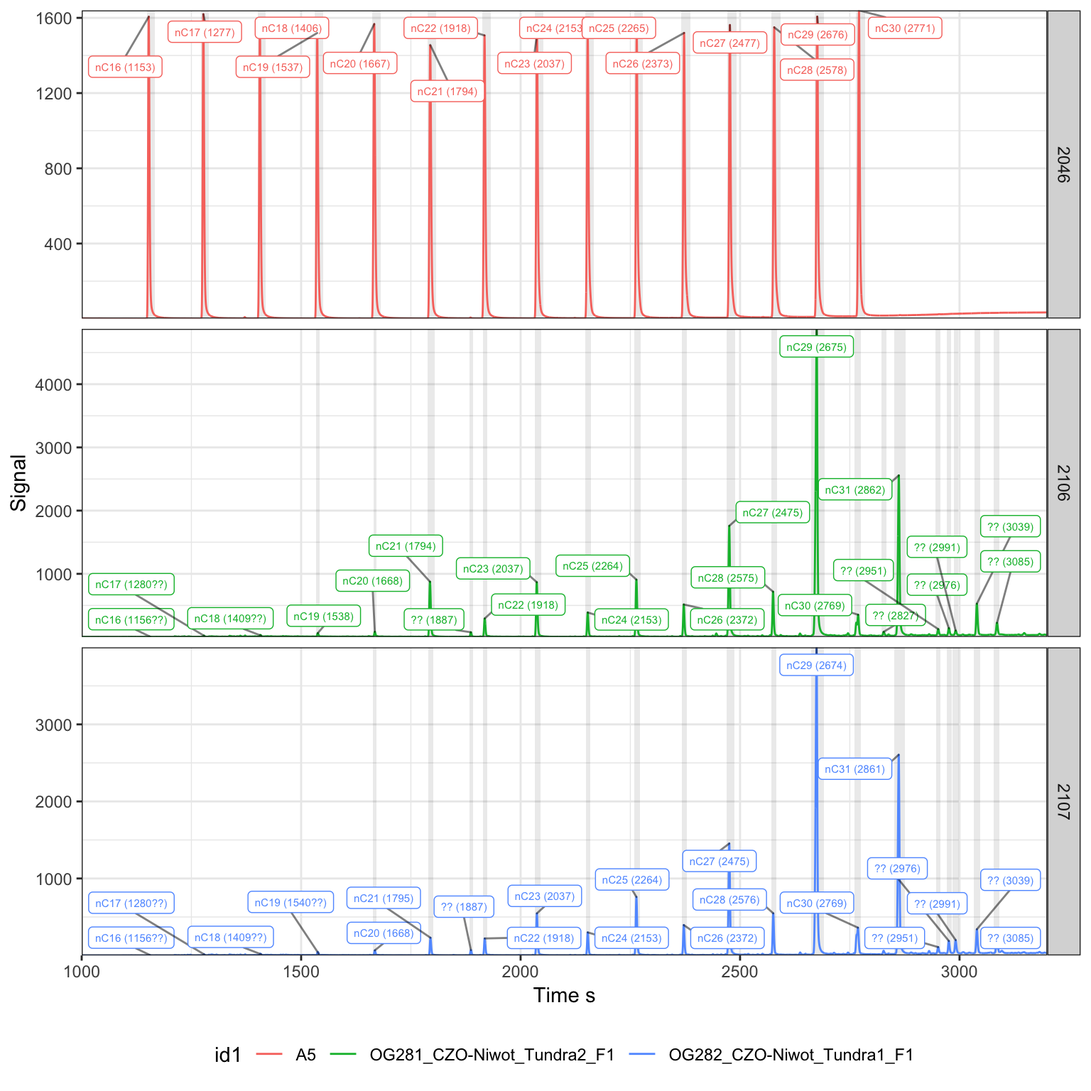
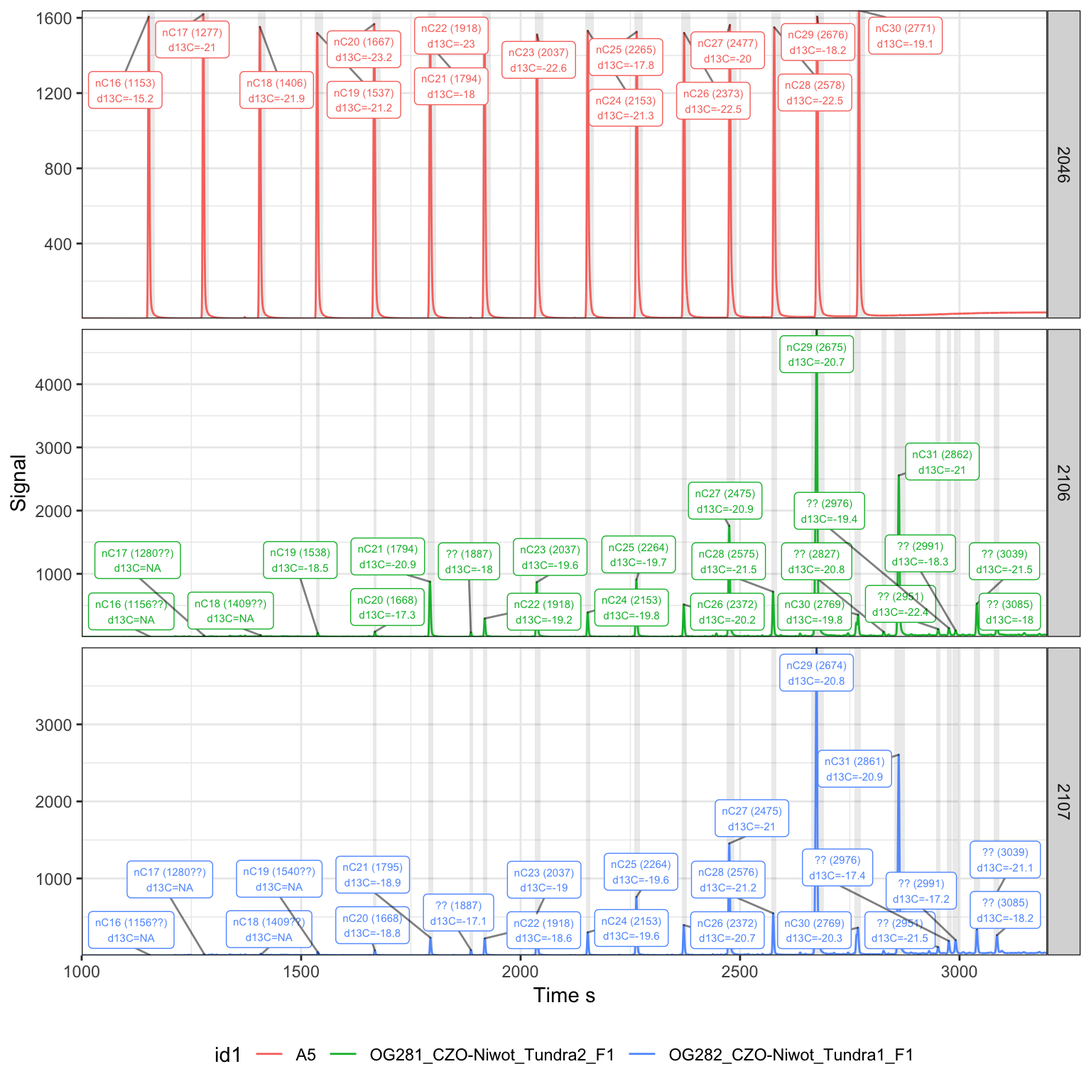
update vignette text

diff --git a/docs/articles/gc_irms_example_carbon.html b/docs/articles/gc_irms_example_carbon.html
@@ -119,27 +119,28 @@
 <a href="#read-raw-data-files" class="anchor"></a>Read raw data files (*)</h2>
 <div class="sourceCode" id="cb2"><pre class="sourceCode r"><code class="sourceCode r"><a class="sourceLine" id="cb2-1" data-line-number="1"><span class="co"># set file path(s) to data files, folders or rds collections </span></a>
 <a class="sourceLine" id="cb2-2" data-line-number="2"><span class="co"># can be multiple folders or mix of folders and files, using example data set here</span></a>
-<a class="sourceLine" id="cb2-3" data-line-number="3">data_path &lt;-<span class="st"> </span><span class="kw"><a href="../reference/iso_get_processor_example.html">iso_get_processor_example</a></span>(<span class="st">"gc_irms_example_carbon.cf.rds"</span>)</a>
-<a class="sourceLine" id="cb2-4" data-line-number="4"></a>
-<a class="sourceLine" id="cb2-5" data-line-number="5"><span class="co"># read files</span></a>
-<a class="sourceLine" id="cb2-6" data-line-number="6">iso_files_raw &lt;-<span class="st"> </span></a>
-<a class="sourceLine" id="cb2-7" data-line-number="7"><span class="st">  </span><span class="co"># path to data files</span></a>
-<a class="sourceLine" id="cb2-8" data-line-number="8"><span class="st">  </span>data_path <span class="op">%&gt;%</span><span class="st"> </span></a>
-<a class="sourceLine" id="cb2-9" data-line-number="9"><span class="st">  </span><span class="co"># read data files in parallel for fast read</span></a>
-<a class="sourceLine" id="cb2-10" data-line-number="10"><span class="st">  </span><span class="kw"><a href="https://www.rdocumentation.org/packages/isoreader/topics/iso_read_continuous_flow">iso_read_continuous_flow</a></span>(<span class="dt">parallel =</span> <span class="ot">TRUE</span>) <span class="op">%&gt;%</span></a>
-<a class="sourceLine" id="cb2-11" data-line-number="11"><span class="st">  </span><span class="co"># filter out files with read errors (e.g. from aborted analysis)</span></a>
-<a class="sourceLine" id="cb2-12" data-line-number="12"><span class="st">  </span><span class="kw"><a href="https://www.rdocumentation.org/packages/isoreader/topics/iso_filter_files_with_problems">iso_filter_files_with_problems</a></span>()</a>
-<a class="sourceLine" id="cb2-13" data-line-number="13"><span class="co">#&gt; Info: preparing to read 1 data files (all will be cached), setting up ...</span></a>
-<a class="sourceLine" id="cb2-14" data-line-number="14"><span class="co">#&gt; Info (process 1): reading file 'gc_irms_example_carbon.cf.rds' with '....</span></a>
-<a class="sourceLine" id="cb2-15" data-line-number="15"><span class="co">#&gt; Info (process 1): loaded data for 47 data files from R Data Storage - ...</span></a>
-<a class="sourceLine" id="cb2-16" data-line-number="16"><span class="co">#&gt; Info: finished reading 1 files in 1.20 secs</span></a>
-<a class="sourceLine" id="cb2-17" data-line-number="17"><span class="co">#&gt; Info: encountered 2 problems in total</span></a>
-<a class="sourceLine" id="cb2-18" data-line-number="18"><span class="co">#&gt; # A tibble: 2 x 4</span></a>
-<a class="sourceLine" id="cb2-19" data-line-number="19"><span class="co">#&gt;   file_id         type  func            details                            </span></a>
-<a class="sourceLine" id="cb2-20" data-line-number="20"><span class="co">#&gt;   &lt;chr&gt;           &lt;chr&gt; &lt;chr&gt;           &lt;chr&gt;                              </span></a>
-<a class="sourceLine" id="cb2-21" data-line-number="21"><span class="co">#&gt; 1 BF2133__A5 con… error extract_dxf_ra… cannot identify measured masses - …</span></a>
-<a class="sourceLine" id="cb2-22" data-line-number="22"><span class="co">#&gt; 2 BF2110__A5_0_5… error extract_dxf_ra… cannot identify measured masses - …</span></a>
-<a class="sourceLine" id="cb2-23" data-line-number="23"><span class="co">#&gt; Info: removing 2/47 files that have any error (keeping 45)</span></a></code></pre></div>
+<a class="sourceLine" id="cb2-3" data-line-number="3"><span class="co"># (this is a reduced data set of mostly standards with just a few example samples)</span></a>
+<a class="sourceLine" id="cb2-4" data-line-number="4">data_path &lt;-<span class="st"> </span><span class="kw"><a href="../reference/iso_get_processor_example.html">iso_get_processor_example</a></span>(<span class="st">"gc_irms_example_carbon.cf.rds"</span>)</a>
+<a class="sourceLine" id="cb2-5" data-line-number="5"></a>
+<a class="sourceLine" id="cb2-6" data-line-number="6"><span class="co"># read files</span></a>
+<a class="sourceLine" id="cb2-7" data-line-number="7">iso_files_raw &lt;-<span class="st"> </span></a>
+<a class="sourceLine" id="cb2-8" data-line-number="8"><span class="st">  </span><span class="co"># path to data files</span></a>
+<a class="sourceLine" id="cb2-9" data-line-number="9"><span class="st">  </span>data_path <span class="op">%&gt;%</span><span class="st"> </span></a>
+<a class="sourceLine" id="cb2-10" data-line-number="10"><span class="st">  </span><span class="co"># read data files in parallel for fast read</span></a>
+<a class="sourceLine" id="cb2-11" data-line-number="11"><span class="st">  </span><span class="kw"><a href="https://www.rdocumentation.org/packages/isoreader/topics/iso_read_continuous_flow">iso_read_continuous_flow</a></span>(<span class="dt">parallel =</span> <span class="ot">TRUE</span>) <span class="op">%&gt;%</span></a>
+<a class="sourceLine" id="cb2-12" data-line-number="12"><span class="st">  </span><span class="co"># filter out files with read errors (e.g. from aborted analysis)</span></a>
+<a class="sourceLine" id="cb2-13" data-line-number="13"><span class="st">  </span><span class="kw"><a href="https://www.rdocumentation.org/packages/isoreader/topics/iso_filter_files_with_problems">iso_filter_files_with_problems</a></span>()</a>
+<a class="sourceLine" id="cb2-14" data-line-number="14"><span class="co">#&gt; Info: preparing to read 1 data files (all will be cached), setting up ...</span></a>
+<a class="sourceLine" id="cb2-15" data-line-number="15"><span class="co">#&gt; Info (process 1): reading file 'gc_irms_example_carbon.cf.rds' with '....</span></a>
+<a class="sourceLine" id="cb2-16" data-line-number="16"><span class="co">#&gt; Info (process 1): loaded data for 47 data files from R Data Storage - ...</span></a>
+<a class="sourceLine" id="cb2-17" data-line-number="17"><span class="co">#&gt; Info: finished reading 1 files in 1.20 secs</span></a>
+<a class="sourceLine" id="cb2-18" data-line-number="18"><span class="co">#&gt; Info: encountered 2 problems in total</span></a>
+<a class="sourceLine" id="cb2-19" data-line-number="19"><span class="co">#&gt; # A tibble: 2 x 4</span></a>
+<a class="sourceLine" id="cb2-20" data-line-number="20"><span class="co">#&gt;   file_id         type  func            details                            </span></a>
+<a class="sourceLine" id="cb2-21" data-line-number="21"><span class="co">#&gt;   &lt;chr&gt;           &lt;chr&gt; &lt;chr&gt;           &lt;chr&gt;                              </span></a>
+<a class="sourceLine" id="cb2-22" data-line-number="22"><span class="co">#&gt; 1 BF2133__A5 con… error extract_dxf_ra… cannot identify measured masses - …</span></a>
+<a class="sourceLine" id="cb2-23" data-line-number="23"><span class="co">#&gt; 2 BF2110__A5_0_5… error extract_dxf_ra… cannot identify measured masses - …</span></a>
+<a class="sourceLine" id="cb2-24" data-line-number="24"><span class="co">#&gt; Info: removing 2/47 files that have any error (keeping 45)</span></a></code></pre></div>
 </div>
 <div id="process-file-information" class="section level2">
 <h2 class="hasAnchor">
@@ -977,30 +978,27 @@
 <a class="sourceLine" id="cb12-5" data-line-number="5"><span class="st">  </span><span class="co"># filter out analyses that</span></a>
 <a class="sourceLine" id="cb12-6" data-line-number="6"><span class="st">  </span>## a) did not inject</a>
 <a class="sourceLine" id="cb12-7" data-line-number="7"><span class="st">  </span><span class="kw"><a href="https://www.rdocumentation.org/packages/isoreader/topics/iso_filter_files">iso_filter_files</a></span>(<span class="op">!</span>Analysis <span class="op">%in%</span><span class="st"> </span><span class="kw"><a href="https://www.rdocumentation.org/packages/base/topics/c">c</a></span>(<span class="dv">2031</span>, <span class="dv">2040</span>, <span class="dv">2069</span>, <span class="dv">2098</span>, <span class="dv">2116</span>, <span class="dv">2138</span>)) <span class="op">%&gt;%</span></a>
-<a class="sourceLine" id="cb12-8" data-line-number="8"><span class="st">  </span><span class="kw"><a href="https://www.rdocumentation.org/packages/isoreader/topics/iso_filter_files">iso_filter_files</a></span>(</a>
-<a class="sourceLine" id="cb12-9" data-line-number="9">    <span class="op">!</span>Analysis <span class="op">%in%</span><span class="st"> </span><span class="kw"><a href="https://www.rdocumentation.org/packages/base/topics/c">c</a></span>(<span class="dv">2031</span>, <span class="dv">2037</span><span class="op">:</span><span class="dv">2040</span>, <span class="dv">2057</span><span class="op">:</span><span class="dv">2058</span>, <span class="dv">2069</span>, <span class="dv">2098</span>, <span class="dv">2116</span>, <span class="dv">2135</span>, <span class="dv">2138</span>)) <span class="op">%&gt;%</span></a>
-<a class="sourceLine" id="cb12-10" data-line-number="10"><span class="st">  </span>## b) had double or rogue peaks from mis-injection</a>
-<a class="sourceLine" id="cb12-11" data-line-number="11"><span class="st">  </span><span class="kw"><a href="https://www.rdocumentation.org/packages/isoreader/topics/iso_filter_files">iso_filter_files</a></span>(<span class="op">!</span>Analysis <span class="op">%in%</span><span class="st"> </span><span class="kw"><a href="https://www.rdocumentation.org/packages/base/topics/c">c</a></span>(<span class="dv">2044</span>, <span class="dv">2132</span>, <span class="dv">2134</span>)) <span class="op">%&gt;%</span><span class="st"> </span></a>
-<a class="sourceLine" id="cb12-12" data-line-number="12"><span class="st">  </span><span class="co"># retrieve peak data table from vendor data</span></a>
-<a class="sourceLine" id="cb12-13" data-line-number="13"><span class="st">  </span><span class="kw"><a href="https://www.rdocumentation.org/packages/isoreader/topics/iso_get_vendor_data_table">iso_get_vendor_data_table</a></span>(</a>
-<a class="sourceLine" id="cb12-14" data-line-number="14">    <span class="dt">select =</span> <span class="kw"><a href="https://www.rdocumentation.org/packages/base/topics/c">c</a></span>(</a>
-<a class="sourceLine" id="cb12-15" data-line-number="15">      <span class="co"># ref peak info (which one was used to calculate raw delta values)</span></a>
-<a class="sourceLine" id="cb12-16" data-line-number="16">      <span class="dt">is_ref =</span> <span class="st">`</span><span class="dt">Is Ref.?</span><span class="st">`</span>,</a>
-<a class="sourceLine" id="cb12-17" data-line-number="17">      <span class="co"># retention time info</span></a>
-<a class="sourceLine" id="cb12-18" data-line-number="18">      <span class="dt">rt_start =</span> Start, <span class="dt">rt =</span> Rt, <span class="dt">rt_end =</span> End,</a>
-<a class="sourceLine" id="cb12-19" data-line-number="19">      <span class="co"># peak amplitude and area info</span></a>
-<a class="sourceLine" id="cb12-20" data-line-number="20">      <span class="dt">amp44.mV =</span> <span class="st">`</span><span class="dt">Ampl 44</span><span class="st">`</span>, <span class="dt">area44.Vs =</span> <span class="st">`</span><span class="dt">Intensity 44</span><span class="st">`</span>, <span class="dt">area.Vs =</span> <span class="st">`</span><span class="dt">Intensity All</span><span class="st">`</span>,</a>
-<a class="sourceLine" id="cb12-21" data-line-number="21">      <span class="co"># isotopic info</span></a>
-<a class="sourceLine" id="cb12-22" data-line-number="22">      <span class="dt">ratio =</span> <span class="st">`</span><span class="dt">R 45CO2/44CO2</span><span class="st">`</span>, <span class="dt">d13C =</span> <span class="st">`</span><span class="dt">d 13C/12C</span><span class="st">`</span></a>
-<a class="sourceLine" id="cb12-23" data-line-number="23">    ),</a>
-<a class="sourceLine" id="cb12-24" data-line-number="24">    <span class="co"># include all file info in the data table</span></a>
-<a class="sourceLine" id="cb12-25" data-line-number="25">    <span class="dt">include_file_info =</span> <span class="kw"><a href="https://www.rdocumentation.org/packages/isoreader/topics/reexports">everything</a></span>()</a>
-<a class="sourceLine" id="cb12-26" data-line-number="26">  ) </a>
-<a class="sourceLine" id="cb12-27" data-line-number="27"><span class="co">#&gt; Info: applying file filter, keeping 40 of 45 files</span></a>
-<a class="sourceLine" id="cb12-28" data-line-number="28"><span class="co">#&gt; Info: applying file filter, keeping 34 of 40 files</span></a>
-<a class="sourceLine" id="cb12-29" data-line-number="29"><span class="co">#&gt; Info: applying file filter, keeping 34 of 34 files</span></a>
-<a class="sourceLine" id="cb12-30" data-line-number="30"><span class="co">#&gt; Info: applying file filter, keeping 32 of 34 files</span></a>
-<a class="sourceLine" id="cb12-31" data-line-number="31"><span class="co">#&gt; Info: aggregating vendor data table without units from 32 data file(s), including file info 'everything()'</span></a></code></pre></div>
+<a class="sourceLine" id="cb12-8" data-line-number="8"><span class="st">  </span>## b) had double or rogue peaks from mis-injection</a>
+<a class="sourceLine" id="cb12-9" data-line-number="9"><span class="st">  </span><span class="kw"><a href="https://www.rdocumentation.org/packages/isoreader/topics/iso_filter_files">iso_filter_files</a></span>(<span class="op">!</span>Analysis <span class="op">%in%</span><span class="st"> </span><span class="kw"><a href="https://www.rdocumentation.org/packages/base/topics/c">c</a></span>(<span class="dv">2044</span>, <span class="dv">2132</span>, <span class="dv">2134</span>)) <span class="op">%&gt;%</span><span class="st"> </span></a>
+<a class="sourceLine" id="cb12-10" data-line-number="10"><span class="st">  </span><span class="co"># retrieve peak data table from vendor data</span></a>
+<a class="sourceLine" id="cb12-11" data-line-number="11"><span class="st">  </span><span class="kw"><a href="https://www.rdocumentation.org/packages/isoreader/topics/iso_get_vendor_data_table">iso_get_vendor_data_table</a></span>(</a>
+<a class="sourceLine" id="cb12-12" data-line-number="12">    <span class="dt">select =</span> <span class="kw"><a href="https://www.rdocumentation.org/packages/base/topics/c">c</a></span>(</a>
+<a class="sourceLine" id="cb12-13" data-line-number="13">      <span class="co"># ref peak info (which one was used to calculate raw delta values)</span></a>
+<a class="sourceLine" id="cb12-14" data-line-number="14">      <span class="dt">is_ref =</span> <span class="st">`</span><span class="dt">Is Ref.?</span><span class="st">`</span>,</a>
+<a class="sourceLine" id="cb12-15" data-line-number="15">      <span class="co"># retention time info</span></a>
+<a class="sourceLine" id="cb12-16" data-line-number="16">      <span class="dt">rt_start =</span> Start, <span class="dt">rt =</span> Rt, <span class="dt">rt_end =</span> End,</a>
+<a class="sourceLine" id="cb12-17" data-line-number="17">      <span class="co"># peak amplitude and area info</span></a>
+<a class="sourceLine" id="cb12-18" data-line-number="18">      <span class="dt">amp44.mV =</span> <span class="st">`</span><span class="dt">Ampl 44</span><span class="st">`</span>, <span class="dt">area44.Vs =</span> <span class="st">`</span><span class="dt">Intensity 44</span><span class="st">`</span>, <span class="dt">area.Vs =</span> <span class="st">`</span><span class="dt">Intensity All</span><span class="st">`</span>,</a>
+<a class="sourceLine" id="cb12-19" data-line-number="19">      <span class="co"># isotopic info</span></a>
+<a class="sourceLine" id="cb12-20" data-line-number="20">      <span class="dt">ratio =</span> <span class="st">`</span><span class="dt">R 45CO2/44CO2</span><span class="st">`</span>, <span class="dt">d13C =</span> <span class="st">`</span><span class="dt">d 13C/12C</span><span class="st">`</span></a>
+<a class="sourceLine" id="cb12-21" data-line-number="21">    ),</a>
+<a class="sourceLine" id="cb12-22" data-line-number="22">    <span class="co"># include all file info in the data table</span></a>
+<a class="sourceLine" id="cb12-23" data-line-number="23">    <span class="dt">include_file_info =</span> <span class="kw"><a href="https://www.rdocumentation.org/packages/isoreader/topics/reexports">everything</a></span>()</a>
+<a class="sourceLine" id="cb12-24" data-line-number="24">  ) </a>
+<a class="sourceLine" id="cb12-25" data-line-number="25"><span class="co">#&gt; Info: applying file filter, keeping 40 of 45 files</span></a>
+<a class="sourceLine" id="cb12-26" data-line-number="26"><span class="co">#&gt; Info: applying file filter, keeping 34 of 40 files</span></a>
+<a class="sourceLine" id="cb12-27" data-line-number="27"><span class="co">#&gt; Info: applying file filter, keeping 32 of 34 files</span></a>
+<a class="sourceLine" id="cb12-28" data-line-number="28"><span class="co">#&gt; Info: aggregating vendor data table without units from 32 data file(s), including file info 'everything()'</span></a></code></pre></div>
 </div>
 <div id="peak-identification" class="section level1">
 <h1 class="hasAnchor">
@@ -1247,21 +1245,23 @@
 <a class="sourceLine" id="cb15-7" data-line-number="7">    <span class="dt">data =</span> <span class="dv">44</span>, <span class="dt">color =</span> id1, <span class="dt">panel =</span> Analysis,</a>
 <a class="sourceLine" id="cb15-8" data-line-number="8">    <span class="co"># zoom in on time interval</span></a>
 <a class="sourceLine" id="cb15-9" data-line-number="9">    <span class="dt">time_interval =</span> <span class="kw"><a href="https://www.rdocumentation.org/packages/base/topics/c">c</a></span>(<span class="dv">1000</span>, <span class="dv">3200</span>),</a>
-<a class="sourceLine" id="cb15-10" data-line-number="10">    <span class="co"># define peak features</span></a>
-<a class="sourceLine" id="cb15-11" data-line-number="11">    <span class="dt">peak_table =</span> peak_table_w_ids, <span class="dt">peak_label =</span> peak_info, </a>
-<a class="sourceLine" id="cb15-12" data-line-number="12">    <span class="co"># specify which labels to show (removing the !is_identified or putting a </span></a>
-<a class="sourceLine" id="cb15-13" data-line-number="13">    <span class="co"># restriction by retention time can help a lot with busy chromatograms)</span></a>
-<a class="sourceLine" id="cb15-14" data-line-number="14">    <span class="dt">peak_label_filter =</span> is_identified <span class="op">|</span><span class="st"> </span><span class="op">!</span>is_identified <span class="op">|</span><span class="st"> </span>is_missing</a>
-<a class="sourceLine" id="cb15-15" data-line-number="15">  )  <span class="op">+</span></a>
-<a class="sourceLine" id="cb15-16" data-line-number="16"><span class="st">  </span><span class="co"># customize resulting ggplot</span></a>
-<a class="sourceLine" id="cb15-17" data-line-number="17"><span class="st">  </span><span class="kw">theme</span>(<span class="dt">legend.position =</span> <span class="st">"bottom"</span>)</a>
-<a class="sourceLine" id="cb15-18" data-line-number="18"><span class="co">#&gt; Info: applying file filter, keeping 3 of 45 files</span></a></code></pre></div>
+<a class="sourceLine" id="cb15-10" data-line-number="10">    <span class="co"># provide peak table information</span></a>
+<a class="sourceLine" id="cb15-11" data-line-number="11">    <span class="dt">peak_table =</span> peak_table_w_ids, </a>
+<a class="sourceLine" id="cb15-12" data-line-number="12">    <span class="co"># define peak labels, this can be any valid expression</span></a>
+<a class="sourceLine" id="cb15-13" data-line-number="13">    <span class="dt">peak_label =</span> <span class="kw"><a href="https://www.rdocumentation.org/packages/base/topics/paste">paste0</a></span>(peak_info, <span class="st">"</span><span class="ch">\n</span><span class="st">d13C="</span>, <span class="kw"><a href="https://www.rdocumentation.org/packages/base/topics/Round">round</a></span>(d13C, <span class="dv">1</span>)), </a>
+<a class="sourceLine" id="cb15-14" data-line-number="14">    <span class="co"># specify which labels to show (removing the !is_identified or putting a </span></a>
+<a class="sourceLine" id="cb15-15" data-line-number="15">    <span class="co"># restriction by retention time can help a lot with busy chromatograms)</span></a>
+<a class="sourceLine" id="cb15-16" data-line-number="16">    <span class="dt">peak_label_filter =</span> is_identified <span class="op">|</span><span class="st"> </span><span class="op">!</span>is_identified <span class="op">|</span><span class="st"> </span>is_missing</a>
+<a class="sourceLine" id="cb15-17" data-line-number="17">  )  <span class="op">+</span></a>
+<a class="sourceLine" id="cb15-18" data-line-number="18"><span class="st">  </span><span class="co"># customize resulting ggplot</span></a>
+<a class="sourceLine" id="cb15-19" data-line-number="19"><span class="st">  </span><span class="kw">theme</span>(<span class="dt">legend.position =</span> <span class="st">"bottom"</span>)</a>
+<a class="sourceLine" id="cb15-20" data-line-number="20"><span class="co">#&gt; Info: applying file filter, keeping 3 of 45 files</span></a></code></pre></div>
 <p><img src="gc_irms_example_carbon_files/figure-html/example_chromatograms_with_peaks-1.png" width="768"></p>
 </div>
 <div id="overview-of-unclear-peak-mappings" class="section level2">
 <h2 class="hasAnchor">
 <a href="#overview-of-unclear-peak-mappings" class="anchor"></a>Overview of unclear peak mappings</h2>
-<div class="sourceCode" id="cb16"><pre class="sourceCode r"><code class="sourceCode r"><a class="sourceLine" id="cb16-1" data-line-number="1"><span class="co"># look at missing and unidentified peaks summary</span></a>
+<div class="sourceCode" id="cb16"><pre class="sourceCode r"><code class="sourceCode r"><a class="sourceLine" id="cb16-1" data-line-number="1"><span class="co"># look at missing and unidentified peaks summary (not run during knitting)</span></a>
 <a class="sourceLine" id="cb16-2" data-line-number="2"><span class="co"># -&gt; check if any of the missing peaks are unexpected (should be there but aren't)</span></a>
 <a class="sourceLine" id="cb16-3" data-line-number="3"><span class="co"># -&gt; check if any unidentified peaks should be added to the peak maps</span></a>
 <a class="sourceLine" id="cb16-4" data-line-number="4"><span class="co"># -&gt; check if any ambiguous peaks need clearer peak map retention times</span></a>
@@ -1269,8 +1269,7 @@
 <a class="sourceLine" id="cb16-6" data-line-number="6"><span class="co"># as needed: iterate on peak map update, then peak mapping inspection</span></a>
 <a class="sourceLine" id="cb16-7" data-line-number="7">peak_table_w_ids <span class="op">%&gt;%</span><span class="st"> </span></a>
 <a class="sourceLine" id="cb16-8" data-line-number="8"><span class="st">  </span><span class="kw"><a href="../reference/iso_get_problematic_peak_mappings.html">iso_get_problematic_peak_mappings</a></span>() <span class="op">%&gt;%</span><span class="st"> </span></a>
-<a class="sourceLine" id="cb16-9" data-line-number="9"><span class="st">  </span><span class="kw"><a href="../reference/iso_summarize_peak_mappings.html">iso_summarize_peak_mappings</a></span>(<span class="dt">file_id =</span> <span class="kw"><a href="https://www.rdocumentation.org/packages/base/topics/c">c</a></span>(Analysis, type)) <span class="op">%&gt;%</span><span class="st"> </span></a>
-<a class="sourceLine" id="cb16-10" data-line-number="10"><span class="st">  </span>knitr<span class="op">::</span><span class="kw"><a href="https://www.rdocumentation.org/packages/knitr/topics/kable">kable</a></span>()</a></code></pre></div>
+<a class="sourceLine" id="cb16-9" data-line-number="9"><span class="st">  </span><span class="kw"><a href="../reference/iso_summarize_peak_mappings.html">iso_summarize_peak_mappings</a></span>(<span class="dt">file_id =</span> <span class="kw"><a href="https://www.rdocumentation.org/packages/base/topics/c">c</a></span>(Analysis, type))</a></code></pre></div>
 </div>
 </div>
 <div id="reference-peaks" class="section level1">
@@ -2754,29 +2753,30 @@
 <a class="sourceLine" id="cb38-4" data-line-number="4"><span class="st">  </span><span class="co"># focus on samples</span></a>
 <a class="sourceLine" id="cb38-5" data-line-number="5"><span class="st">  </span><span class="kw"><a href="https://dplyr.tidyverse.org/reference/filter.html">filter</a></span>(type <span class="op">==</span><span class="st"> "sample"</span>) <span class="op">%&gt;%</span><span class="st"> </span></a>
 <a class="sourceLine" id="cb38-6" data-line-number="6"><span class="st">  </span><span class="co"># focus on identified peaks (comment out this line to see ALL peaks)</span></a>
-<a class="sourceLine" id="cb38-7" data-line-number="7"><span class="st">  </span><span class="kw"><a href="https://dplyr.tidyverse.org/reference/filter.html">filter</a></span>(<span class="op">!</span><span class="kw"><a href="https://www.rdocumentation.org/packages/base/topics/NA">is.na</a></span>(compound)) <span class="op">%&gt;%</span><span class="st"> </span></a>
-<a class="sourceLine" id="cb38-8" data-line-number="8"><span class="st">  </span><span class="co"># visualize</span></a>
-<a class="sourceLine" id="cb38-9" data-line-number="9"><span class="st">  </span><span class="kw"><a href="../reference/iso_plot_data.html">iso_plot_data</a></span>(</a>
-<a class="sourceLine" id="cb38-10" data-line-number="10">    <span class="co"># x and y</span></a>
-<a class="sourceLine" id="cb38-11" data-line-number="11">    <span class="dt">x =</span> sample, <span class="dt">y =</span> true_d13C_pred, <span class="dt">y_error =</span> true_d13C_pred_se,</a>
-<a class="sourceLine" id="cb38-12" data-line-number="12">    <span class="co"># aesthetics</span></a>
-<a class="sourceLine" id="cb38-13" data-line-number="13">    <span class="dt">color =</span> in_range, <span class="dt">size =</span> rel_area,</a>
-<a class="sourceLine" id="cb38-14" data-line-number="14">    <span class="co"># geoms</span></a>
-<a class="sourceLine" id="cb38-15" data-line-number="15">    <span class="dt">points =</span> <span class="ot">TRUE</span></a>
-<a class="sourceLine" id="cb38-16" data-line-number="16">  ) <span class="op">%&gt;%</span><span class="st"> </span></a>
-<a class="sourceLine" id="cb38-17" data-line-number="17"><span class="st">  </span><span class="co"># mark calibration range (include optionally)</span></a>
-<a class="sourceLine" id="cb38-18" data-line-number="18"><span class="st">  </span><span class="kw"><a href="../reference/iso_mark_calibration_range.html">iso_mark_calibration_range</a></span>() <span class="op">+</span></a>
-<a class="sourceLine" id="cb38-19" data-line-number="19"><span class="st">  </span><span class="co"># add facet wrap</span></a>
-<a class="sourceLine" id="cb38-20" data-line-number="20"><span class="st">  </span><span class="kw">facet_wrap</span>(<span class="op">~</span>compound, <span class="dt">scales =</span> <span class="st">"free_y"</span>) <span class="op">+</span></a>
-<a class="sourceLine" id="cb38-21" data-line-number="21"><span class="st">  </span><span class="co"># color palette (here example of manual: www.google.com/search?q=color+picker)</span></a>
-<a class="sourceLine" id="cb38-22" data-line-number="22"><span class="st">  </span><span class="kw">scale_color_manual</span>(</a>
-<a class="sourceLine" id="cb38-23" data-line-number="23">    <span class="dt">values =</span> <span class="kw"><a href="https://www.rdocumentation.org/packages/base/topics/c">c</a></span>(<span class="st">"#984EA3"</span>, <span class="st">"#E41A1C"</span>, <span class="st">"#E41A1C"</span>, <span class="st">"#377EB8"</span>, <span class="st">"#FF7F00"</span>, <span class="st">"#4DAF4A"</span>)</a>
-<a class="sourceLine" id="cb38-24" data-line-number="24">  ) <span class="op">+</span></a>
-<a class="sourceLine" id="cb38-25" data-line-number="25"><span class="st">  </span><span class="co"># clarify size scale</span></a>
-<a class="sourceLine" id="cb38-26" data-line-number="26"><span class="st">  </span><span class="kw">scale_size_continuous</span>(<span class="dt">breaks =</span> <span class="kw"><a href="https://www.rdocumentation.org/packages/base/topics/c">c</a></span>(<span class="fl">0.01</span>, <span class="fl">0.05</span>, <span class="fl">0.1</span>, <span class="fl">0.2</span>, <span class="fl">0.3</span>), </a>
-<a class="sourceLine" id="cb38-27" data-line-number="27">                        <span class="dt">labels =</span> <span class="cf">function</span>(x) <span class="kw"><a href="https://www.rdocumentation.org/packages/base/topics/paste">paste0</a></span>(<span class="dv">100</span><span class="op">*</span>x, <span class="st">"%"</span>)) <span class="op">+</span></a>
-<a class="sourceLine" id="cb38-28" data-line-number="28"><span class="st">  </span><span class="co"># plot labels</span></a>
-<a class="sourceLine" id="cb38-29" data-line-number="29"><span class="st">  </span><span class="kw">labs</span>(<span class="dt">x =</span> <span class="ot">NULL</span>, <span class="dt">y =</span> <span class="st">"d13C [permil]"</span>)</a></code></pre></div>
+<a class="sourceLine" id="cb38-7" data-line-number="7"><span class="st">  </span><span class="co"># if there's a lot of data, might need to hone in on a few at a time</span></a>
+<a class="sourceLine" id="cb38-8" data-line-number="8"><span class="st">  </span><span class="kw"><a href="https://dplyr.tidyverse.org/reference/filter.html">filter</a></span>(<span class="op">!</span><span class="kw"><a href="https://www.rdocumentation.org/packages/base/topics/NA">is.na</a></span>(compound)) <span class="op">%&gt;%</span><span class="st"> </span></a>
+<a class="sourceLine" id="cb38-9" data-line-number="9"><span class="st">  </span><span class="co"># visualize</span></a>
+<a class="sourceLine" id="cb38-10" data-line-number="10"><span class="st">  </span><span class="kw"><a href="../reference/iso_plot_data.html">iso_plot_data</a></span>(</a>
+<a class="sourceLine" id="cb38-11" data-line-number="11">    <span class="co"># x and y</span></a>
+<a class="sourceLine" id="cb38-12" data-line-number="12">    <span class="dt">x =</span> sample, <span class="dt">y =</span> true_d13C_pred, <span class="dt">y_error =</span> true_d13C_pred_se,</a>
+<a class="sourceLine" id="cb38-13" data-line-number="13">    <span class="co"># aesthetics</span></a>
+<a class="sourceLine" id="cb38-14" data-line-number="14">    <span class="dt">color =</span> in_range, <span class="dt">size =</span> rel_area,</a>
+<a class="sourceLine" id="cb38-15" data-line-number="15">    <span class="co"># geoms</span></a>
+<a class="sourceLine" id="cb38-16" data-line-number="16">    <span class="dt">points =</span> <span class="ot">TRUE</span></a>
+<a class="sourceLine" id="cb38-17" data-line-number="17">  ) <span class="op">%&gt;%</span><span class="st"> </span></a>
+<a class="sourceLine" id="cb38-18" data-line-number="18"><span class="st">  </span><span class="co"># mark calibration range (include optionally)</span></a>
+<a class="sourceLine" id="cb38-19" data-line-number="19"><span class="st">  </span><span class="kw"><a href="../reference/iso_mark_calibration_range.html">iso_mark_calibration_range</a></span>() <span class="op">+</span></a>
+<a class="sourceLine" id="cb38-20" data-line-number="20"><span class="st">  </span><span class="co"># add facet wrap</span></a>
+<a class="sourceLine" id="cb38-21" data-line-number="21"><span class="st">  </span><span class="kw">facet_wrap</span>(<span class="op">~</span>compound, <span class="dt">scales =</span> <span class="st">"free_y"</span>) <span class="op">+</span></a>
+<a class="sourceLine" id="cb38-22" data-line-number="22"><span class="st">  </span><span class="co"># color palette (here example of manual: www.google.com/search?q=color+picker)</span></a>
+<a class="sourceLine" id="cb38-23" data-line-number="23"><span class="st">  </span><span class="kw">scale_color_manual</span>(</a>
+<a class="sourceLine" id="cb38-24" data-line-number="24">    <span class="dt">values =</span> <span class="kw"><a href="https://www.rdocumentation.org/packages/base/topics/c">c</a></span>(<span class="st">"#984EA3"</span>, <span class="st">"#E41A1C"</span>, <span class="st">"#E41A1C"</span>, <span class="st">"#377EB8"</span>, <span class="st">"#FF7F00"</span>, <span class="st">"#4DAF4A"</span>)</a>
+<a class="sourceLine" id="cb38-25" data-line-number="25">  ) <span class="op">+</span></a>
+<a class="sourceLine" id="cb38-26" data-line-number="26"><span class="st">  </span><span class="co"># clarify size scale</span></a>
+<a class="sourceLine" id="cb38-27" data-line-number="27"><span class="st">  </span><span class="kw">scale_size_continuous</span>(<span class="dt">breaks =</span> <span class="kw"><a href="https://www.rdocumentation.org/packages/base/topics/c">c</a></span>(<span class="fl">0.01</span>, <span class="fl">0.05</span>, <span class="fl">0.1</span>, <span class="fl">0.2</span>, <span class="fl">0.3</span>), </a>
+<a class="sourceLine" id="cb38-28" data-line-number="28">                        <span class="dt">labels =</span> <span class="cf">function</span>(x) <span class="kw"><a href="https://www.rdocumentation.org/packages/base/topics/paste">paste0</a></span>(<span class="dv">100</span><span class="op">*</span>x, <span class="st">"%"</span>)) <span class="op">+</span></a>
+<a class="sourceLine" id="cb38-29" data-line-number="29"><span class="st">  </span><span class="co"># plot labels</span></a>
+<a class="sourceLine" id="cb38-30" data-line-number="30"><span class="st">  </span><span class="kw">labs</span>(<span class="dt">x =</span> <span class="ot">NULL</span>, <span class="dt">y =</span> <span class="st">"d13C [permil]"</span>)</a></code></pre></div>
 <p><img src="gc_irms_example_carbon_files/figure-html/samples-1.png" width="960"></p>
 </div>
 <div id="relative-abundances" class="section level3">
